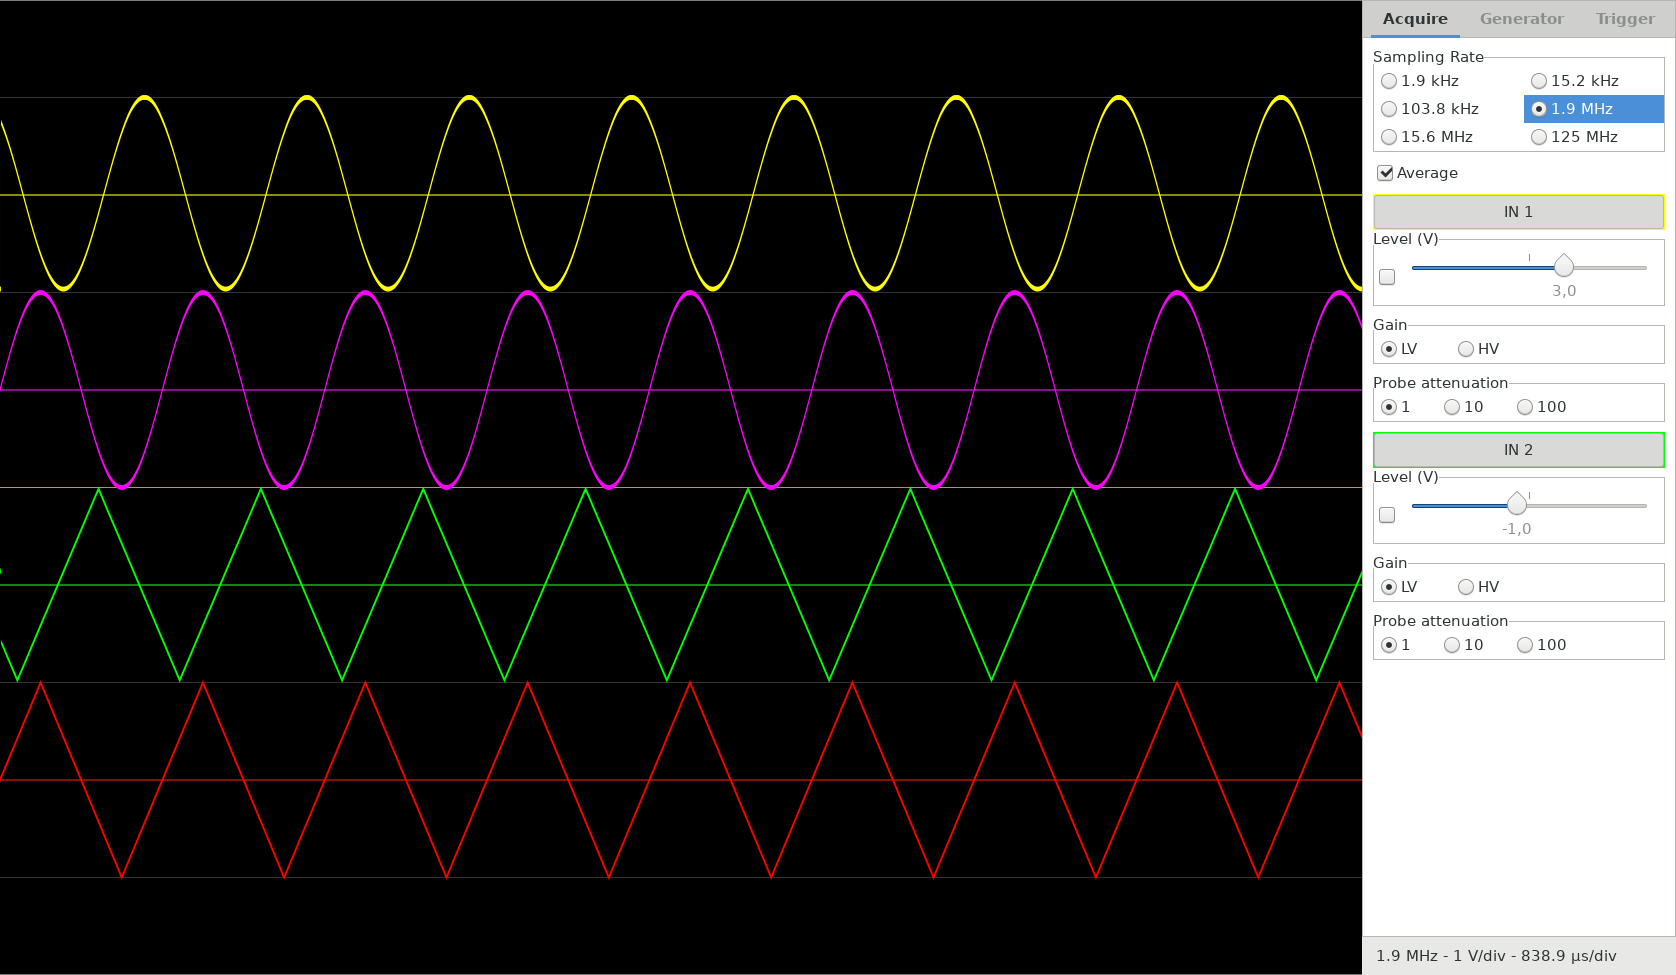
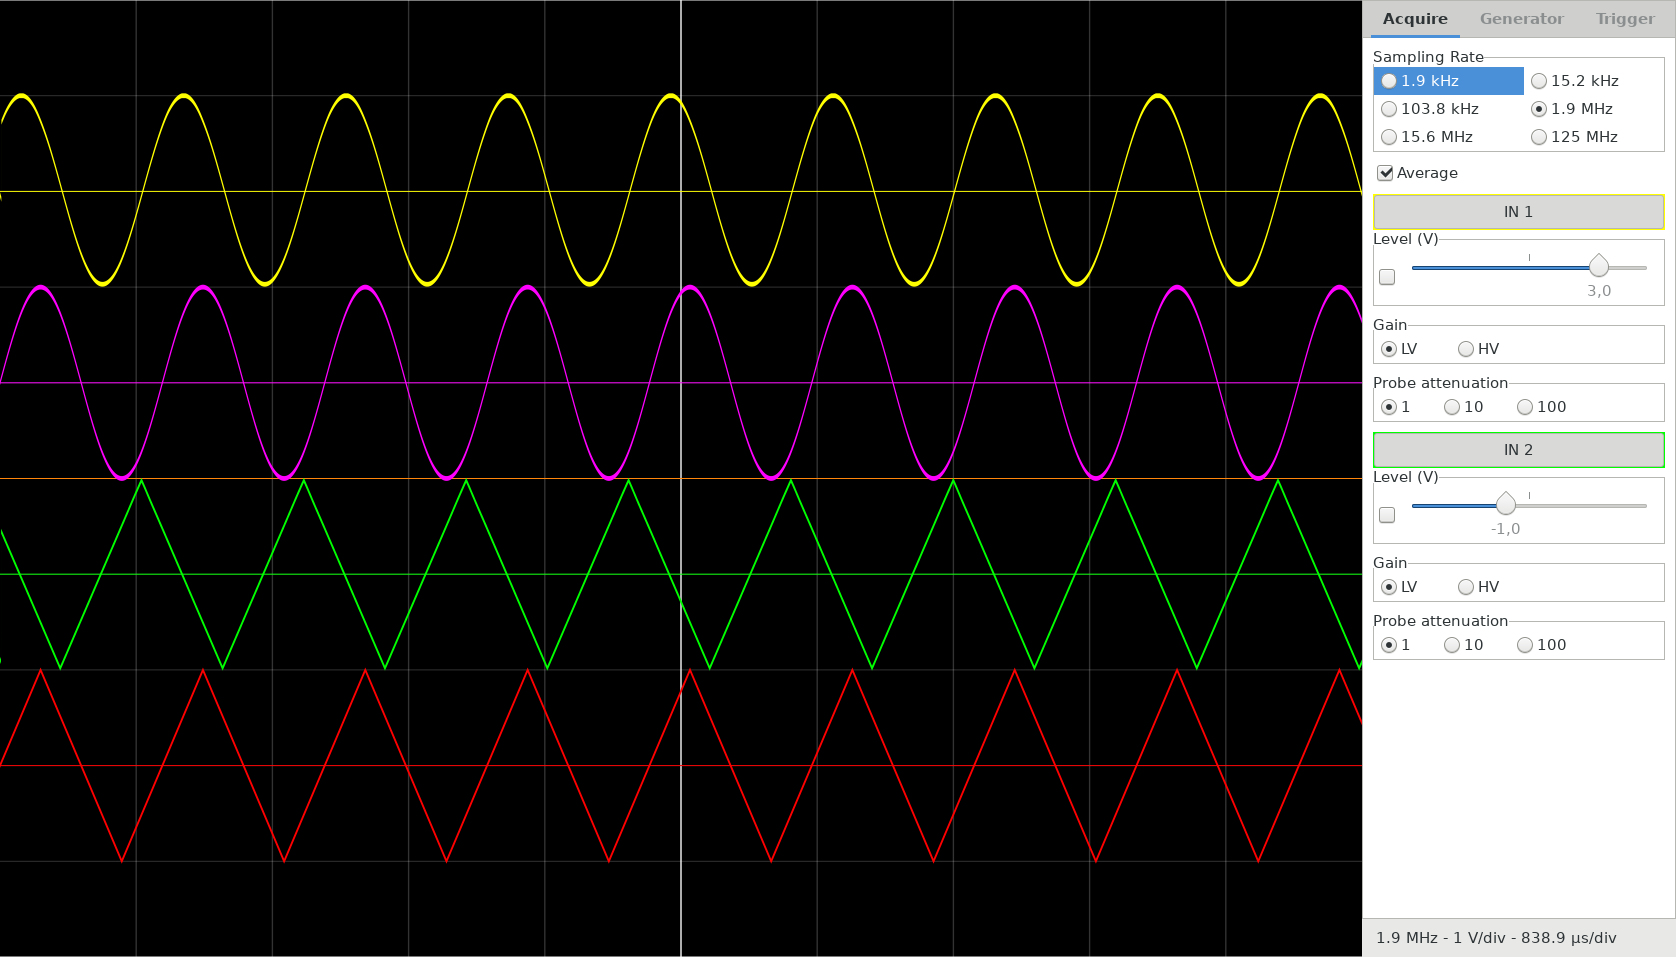
[graph] Fix vertical line drawing

diff --git a/src/application/graph/widget.rs b/src/application/graph/widget.rs
@@ -67,19 +67,21 @@ impl ::application::Panel for Widget {
 
             let x = width / 10.0 * (i as f64);
 
+            context.set_line_width(width / 1000.0);
             context.move_to(model.scales.h.0 + x, model.scales.v.0);
             context.line_to(model.scales.h.0 + x, model.scales.v.1);
             context.stroke();
 
             let y = height / 10.0 * (i as f64);
 
+            context.set_line_width(height / 1000.0);
             context.move_to(model.scales.h.0, model.scales.v.0 + y);
             context.line_to(model.scales.h.1, model.scales.v.0 + y);
             context.stroke();
         }
     }
 
-    fn update_scales(&self, scales: ::Scales) {
+    fn update_scales(&self, _: ::Scales) {
     }
 }
 
